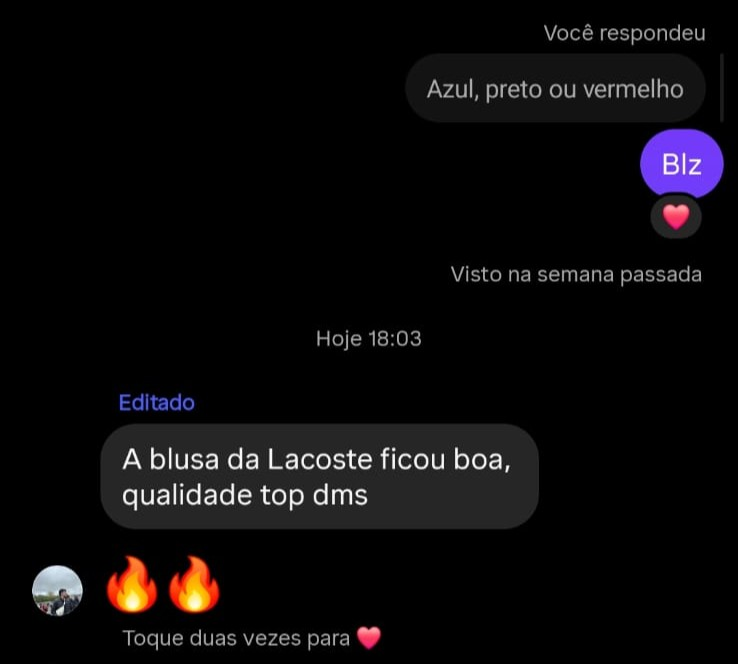
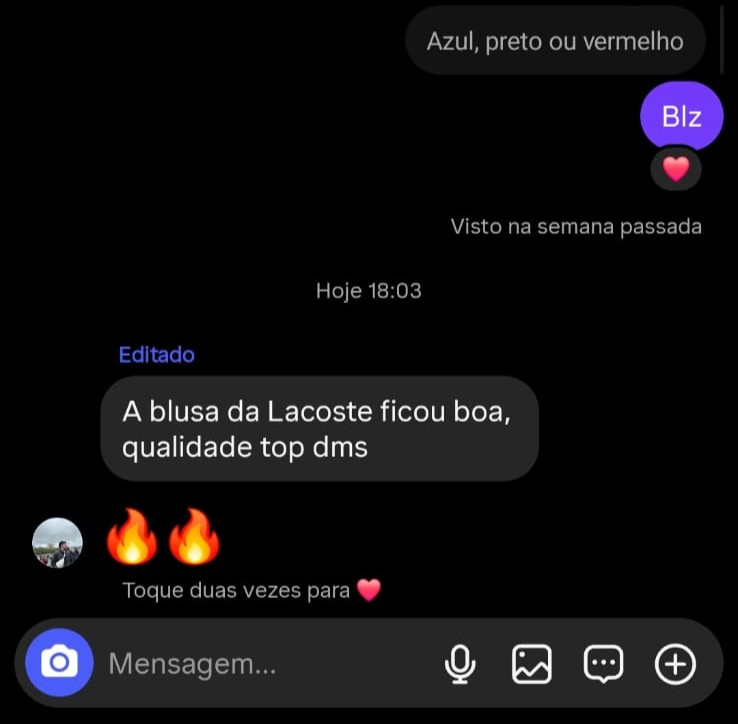
commit
mudou mt coisa: carrousel fix + botao produto, review novo design, cor padrao fix e ajuste da review 3

diff --git a/src/styles/style.css b/src/styles/style.css
@@ -224,7 +224,7 @@ h2 {
 
 .about-quote {
   padding: 100px 6%;
-  background: #faf9f7;
+  background: #ffffff;
 }
 
 .about-quote-container {
@@ -280,54 +280,137 @@ h2 {
   }
 }
 
+/* --- Seção de Produtos em Alta --- */
+.trending-header {
+  text-align: center;
+  margin-bottom: 40px; 
+}
+
+.trending-title {
+  font-family: "Inter", sans-serif;
+  font-size: 14px;
+  text-transform: uppercase;
+  letter-spacing: 3px;
+  color: #1a1a1a;
+  display: block;
+  margin-bottom: 14px;
+  font-weight: 400; 
+}
+
+.trending-line {
+  width: 42px;
+  height: 2px;
+  background: #c6ad8f; 
+  display: block;
+  margin: 0 auto;
+}
+
+/* --- Ações da Seção Produtos em Alta --- */
+.trending-actions {
+    display: flex;
+    justify-content: center; 
+    margin-top: 48px; 
+    margin-bottom: 58px; 
+    padding: 0 4%; 
+}
+
+@media (max-width: 480px) {
+    .trending-actions .btn-secondary {
+        width: 100%;
+        text-align: center;
+    }
+}
+
 
 /* --- Seção de Feedbacks --- */
 #feedbacks {
-    padding: 32px 4%;
+    padding: 80px 0; 
     display: flex;
     flex-direction: column;
     align-items: center;
-    gap: 32px;
-    background-color: #ffffff; 
+    gap: 40px;
+    background-color: #000000ec; 
 }
 
+/* Cabeçalho */
+.feedbacks-header {
+    text-align: center;
+    margin-bottom: 20px;
+    padding: 0 4%; 
+}
+
+.feedbacks-overline {
+    font-family: "Inter", sans-serif;
+    font-size: 12px;
+    letter-spacing: 4px;
+    text-transform: uppercase;
+    color: #949393;
+    display: block;
+    margin-bottom: 16px;
+}
+
+.feedbacks-title {
+    font-family: "Playfair Display", serif;
+    font-size: 38px;
+    font-weight: 400;
+    color: #ffffff; 
+    line-height: 1.2;
+    margin-bottom: 20px;
+}
+
+.feedbacks-line {
+    width: 50px;
+    height: 1px;
+    background: #c6ad8f; 
+    display: block;
+    margin: 0 auto;
+    opacity: 0.7;
+}
+
+/* --- GALERIA: Comportamento Mobile (Padrão) --- */
 .feedback-gallery {
     display: flex;
-    gap: 20px;
+    gap: 24px;
     width: 100%;
-    overflow-x: auto; 
-    padding-bottom: 20px; 
-    scroll-snap-type: x mandatory; 
+    
+    overflow-x: auto;
+    
+    flex-wrap: nowrap;
+    
+    justify-content: flex-start;
+    
+    padding: 20px 4%; 
+    
+    scroll-behavior: smooth;
+    -webkit-overflow-scrolling: touch; 
 }
 
 .feedback-gallery::-webkit-scrollbar {
-    height: 6px;
-}
-.feedback-gallery::-webkit-scrollbar-thumb {
-    background-color: hsl(var(--primary));
-    border-radius: 4px;
-}
-.feedback-gallery::-webkit-scrollbar-track {
-    background-color: #eee;
+    display: none; 
 }
 
+/* --- CARTÕES DOS PRINTS --- */
 .feedback-item {
-    min-width: 260px; 
-    max-width: 280px;
-    scroll-snap-align: center; 
-    transition: transform 0.3s ease;
+    flex: 0 0 auto;
+    width: 300px; 
+    max-width: 85vw; 
+}
+
+.feedback-item:hover {
+    transform: translateY(-5px);
+    border-color: #c6ad8f; 
 }
 
 .feedback-item img {
     width: 100%;
-    border-radius: 12px; 
-    box-shadow: 0 4px 15px rgba(0,0,0, 0.15); 
-    border: 1px solid rgba(0,0,0, 0.05); 
+    border-radius: 8px;
     display: block;
+    opacity: 0.9;
+    transition: opacity 0.3s;
 }
 
-.feedback-item:hover {
-    transform: translateY(-5px); 
+.feedback-item:hover img {
+    opacity: 1;
 }
 
 .proposal {
@@ -436,7 +519,7 @@ h2 {
 
 .exclusivity {
   padding: 120px 6%;
-  background: #faf9f7;
+  background: #ffffff;
   text-align: center;
 }
 
@@ -545,13 +628,23 @@ h2 {
   .proposal-container {
     grid-template-columns: 1fr;
   }
+}
 
+@media (max-width: 768px) {
+    .feedbacks-title {
+        font-size: 30px;
+    }
+}
 
-@media (min-width: 768px) {
+@media (min-width: 1024px) {
     .feedback-gallery {
         justify-content: center;
-        flex-wrap: wrap; 
-        overflow-x: visible; 
+        
+        overflow-x: hidden;
+        
+        flex-wrap: wrap;
+        
+        padding: 20px 0; 
     }
 }
 
@@ -574,5 +667,4 @@ h2 {
   to {
     translate: -100%;
   }
-}
 }

diff --git a/index.html b/index.html
@@ -96,7 +96,7 @@
             <div class="quote-card">
               <span class="quote-line"></span>
               <blockquote>
-                “Aqui, você não compra apenas uma peça, você investe em estilo
+                “Aqui, você não compra apenas uma peça, você investe na sua identidade
                 com segurança.”
               </blockquote>
               <span class="quote-footer">Isaac - CEO da ID Store</span>
@@ -147,7 +147,11 @@
 
       <!-- trending -->
       <section id="trending">
-        <h2 class="title">Em alta</h2>
+        <section id="trending">
+        <div class="trending-header">
+           <span class="trending-title">produtos em alta</span>
+           <span class="trending-line"></span>
+        </div>
         <div class="carrosel">
           <div class="group">
             <div class="card"></div>
@@ -182,39 +186,35 @@
             <div class="card"></div>
           </div>
         </div>
+
+        <div class="trending-actions">
+            <a href="https://wa.me/+5592994342006?text=Olá,+gostaria+de+mais+informações+sobre+os+produtos" class="btn-secondary">
+                Ver a seleção completa →
+            </a>
+        </div>
+
       </section>
 
 
       <!-- Feedback -->
       <section id="feedbacks">
-        <h2 class="title">Reviews</h2>
+        <div class="feedbacks-header">
+           <span class="feedbacks-overline">Experiências</span>
+           <h2 class="feedbacks-title">O que dizem nossos clientes</h2>
+           <span class="feedbacks-line"></span>
+        </div>
 
         <div class="feedback-gallery">
           <div class="feedback-item">
-            <img
-              src="src/assets/reviews/review1.jpeg"
-              alt="Feedback do cliente 1"
-            />
+            <img src="src/assets/reviews/review1.jpeg" alt="Feedback do cliente 1" />
           </div>
           <div class="feedback-item">
-            <img
-              src="src/assets/reviews/review2.jpeg"
-              alt="Feedback do cliente 2"
-            />
+            <img src="src/assets/reviews/review2.jpeg" alt="Feedback do cliente 2" />
           </div>
           <div class="feedback-item">
-            <img
-              src="src/assets/reviews/review3.jpeg"
-              alt="Feedback do cliente 3"
-            />
+            <img src="src/assets/reviews/review3.jpeg" alt="Feedback do cliente 3" />
           </div>
-          <div class="feedback-item">
-            <img
-              src="src/assets/reviews/review4.jpeg"
-              alt="Feedback do cliente 4"
-            />
           </div>
-        </div>
       </section>
 
       <!-- Exclusivity -->
